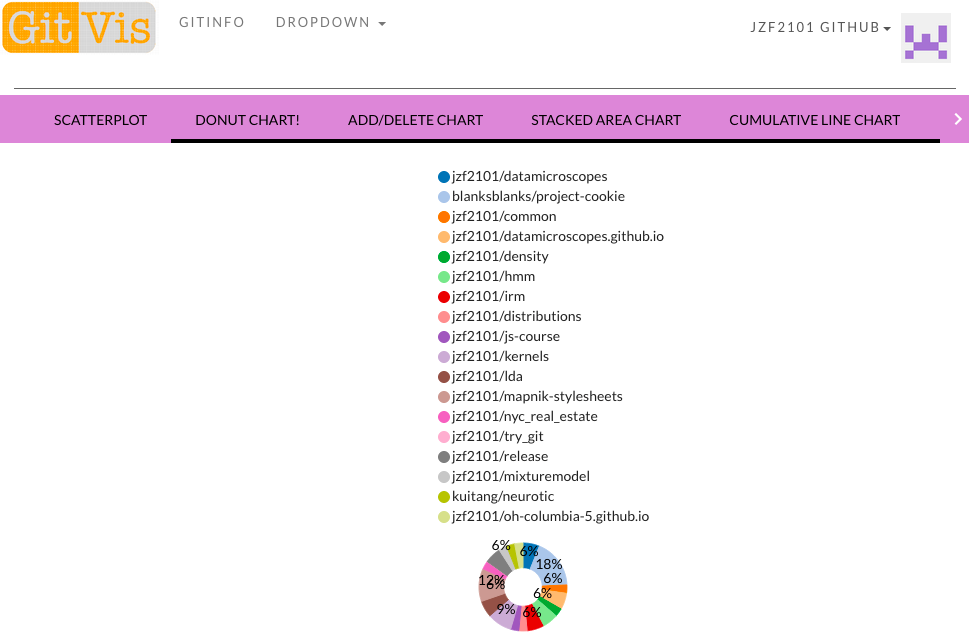
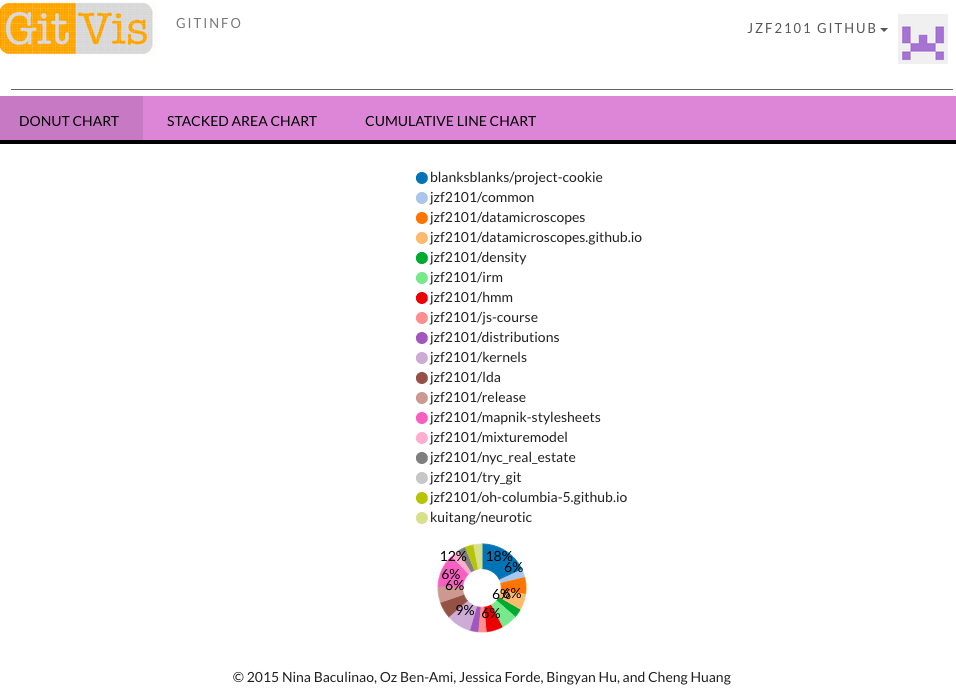
streamlined app to focus on completedfunctionality

diff --git a/public/app/layout/main.html b/public/app/layout/main.html
@@ -18,37 +18,18 @@
 
   <md-tabs class="md-accent">
 
-    <md-tab label="Scatterplot">
-      <!-- <img src="http://cl.ly/image/1I2Z081T2R1j/Image%202015-03-11%20at%202.47.12%20AM.png"> -->
-      <br><center><img src="http://cl.ly/image/2N0S401A313e/Image%202015-03-11%20at%202.00.38%20AM.png"></center>
-      <!-- 	  	<ul>
-	  		<li><b>Question: Which repos do you have the longest relationship with?
-	  		    <li>Information needed:</b>
-    	  		  <ul><li>Circle: repo
-   	  		    <li>Size: repo's number of commits
-   	  		    <li>x: date last updated
-  	  		    <li>y: how long this repo has existed
-      </ul></ul> -->
-    </md-tab>
-
-    <md-tab label="Donut Chart!"><center><br>
+    <md-tab label="Donut Chart"><center><br>
 	<div ng-controller="DonutCtrl">
 	  <div class="span9">
 	    <div id='DonutChart' class='span4'>
-	      Donut chart
 	      <svg style='height:500px;width:400px'> </svg>
 	    </div>
 
 
 	  </div>
 
-	  <!-- <img src="http://cl.ly/image/1W0y3J0r0m44/Image%202015-03-11%20at%202.42.36%20AM.png"> -->
-	  <img src="http://cl.ly/image/3r3h3l3J0d0h/Image%202015-03-11%20at%201.59.45%20AM.png">
     </center></md-tab>
 
-    <md-tab label="Add/Delete Chart"><center><br>
-	<img src="http://cl.ly/image/2U3I3b3F2l3V/Image%202015-03-11%20at%202.01.27%20AM.png">
-    </center></md-tab>
 
     <md-tab label="Stacked Area Chart"><center><br>
 	<div ng-controller="StackedAreaCtrl">
@@ -57,16 +38,12 @@
 	  {{drawChart()}}
 	  <div class="span9">
 	    <div id='stackedAreaChart' class='span4'>
-	      StackedArea chart
 	      <svg style='height:500px;width:1000px'> </svg>
 	    </div>
 
 
 	  </div>
 
-
-	  <!-- <img src="http://cl.ly/image/1C3p2l0i2U3w/Image%202015-03-11%20at%202.45.17%20AM.png"> -->
-	  <img src="http://cl.ly/image/0b3L382M092q/Image%202015-03-11%20at%202.03.05%20AM.png">
     </center></md-tab>
 
     <md-tab label="Cumulative Line Chart"><center><br>
@@ -76,40 +53,13 @@
 	  {{drawChart()}}
 	  <div class="span9">
 	    <div id='cumulativeLineChart' class='span4'>
-	      Cumulative line chart
 	      <svg style='height:500px;width:1000px'> </svg>
 	    </div>
 
 
 	  </div>
 
-
-	<img src="http://cl.ly/image/442z2b0B311K/Image%202015-03-11%20at%202.03.54%20AM.png">
     </center></md-tab>
-
-    <md-tab label="Angular Material Design Bar Chart">
-      <style>
-	.chart div {
-	font: 10px sans-serif;
-	background-color: steelblue;
-	text-align: right;
-	padding: 3px;
-	margin: 1px;
-	color: white;
-	}
-      </style>
-      <div class="chart"><br>
-	<div style="width: 40px;">4</div>
-	<div style="width: 80px;">8</div>
-	<div style="width: 150px;">15</div>
-	<div style="width: 160px;">16</div>
-	<div style="width: 230px;">23</div>
-	<div style="width: 420px;">42</div>
-      </div>
-    </md-tab>
-
-
-  </md-tabs>
 
 
   </div>

diff --git a/public/app/core/nav/nav-menu.html b/public/app/core/nav/nav-menu.html
@@ -3,22 +3,6 @@
   <!--<li class="active"><a href="#">Link</a></li>
   <li ui-sref-active="active"><a ui-sref="admin">Admin</a></li>-->
   <li ui-sref-active="active"><a ui-sref="gitinfo">GitInfo</a></li>
-  <li class="dropdown" dropdown>
-    <a href="#" class="dropdown-toggle"
-                data-toggle="dropdown"
-                dropdown-toggle>
-      Dropdown <span class="caret"></span>
-    </a>
-    <ul class="dropdown-menu" role="menu">
-      <li><a href="#">Action</a></li>
-      <li><a href="#">Another action</a></li>
-      <li><a href="#">Something else here</a></li>
-      <li class="divider"></li>
-      <li><a href="#">Separated link</a></li>
-      <li class="divider"></li>
-      <li><a href="#">One more separated link</a></li>
-    </ul>
-  </li>
 </ul>
 
 

diff --git a/public/index.html b/public/index.html
@@ -128,11 +128,11 @@
   <script src="app/core/user/User.js"></script>
   <script src="app/dashboard/DashboardCtrl.js"></script>
   <script src="app/dashboard/config.route.js"></script>
+  <script src="app/github/ClineCtrl.js"></script>
   <script src="app/github/DonutCtrl.js"></script>
   <script src="app/github/GitCtrl.js"></script>
   <script src="app/github/GithubService.js"></script>
   <script src="app/github/StackedAreaCtrl.js"></script>
-  <script src="app/github/ClineCtrl.js"></script>
   <script src="app/github/config.route.js"></script>
   <script src="app/github/gitInfo.js"></script>
   <script src="app/nv.d3.js"></script>

diff --git a/public/app/core/auth/auth-widget.html b/public/app/core/auth/auth-widget.html
@@ -17,7 +17,7 @@
         dropdown
         class="dropdown">
       <div class="media" class="dropdown-toggle" dropdown-toggle>
-        <a class="pull-right" href="#" >
+        <a class="pull-right" href="." >
           <img 
                ng-src="{{currentUser().profileImageUrl}}"
                alt="{{currentUser().displayName}}"
@@ -39,7 +39,6 @@
       </ul>
 
       <ul ng-if="isAuthenticated()" class="dropdown-menu">
-        <li><a ui-sref="dashboard">Dashboard</a></li>
         <li>
           <a ui-sref="profile({id: currentUser()._id})">
             User Profile

diff --git a/public/app/github/git.html b/public/app/github/git.html
@@ -1,18 +1,4 @@
 <div ng-controller="DonutCtrl">
 <div>
 {{commits}}</div>
-We are here at the Git page! Time to add some graphs :)
-
-<div class="span9">
-                      <h2 id='pie_chart'>Pie Chart</h2>
-<div id='chart' class='span4'>
-  Regular pie chart
-  <svg style='height:500px;width:400px'> </svg>
-</div>
-<div id='chart2' class='span4'>
-  Donut chart
-  <svg style='height:500px;width:400px'> </svg>
-</div>
-
-<p>If you want to get rid of this duplication in the main page, comment out (git-info) (/git-info)</p>
 </div>

diff --git a/public/app/core/nav/navbar.html b/public/app/core/nav/navbar.html
@@ -10,7 +10,7 @@
           <span class="icon-bar"></span>
           <span class="icon-bar"></span>
         </button>
-        <a href="#" class="navbar-brand">
+        <a href="." class="navbar-brand">
           <!-- <span class="bold">GitVis</span> -->
           <img src="http://cl.ly/image/0u1O013b0729/Image%202015-03-11%20at%201.23.29%20AM.png" height=55>
         </a>

diff --git a/README.md b/README.md
@@ -18,17 +18,22 @@ GitVis is an interactive data visualization of the activities of a GitHub user a
 ###Login with GitHub authentication
 
 
-![login](http://cl.ly/image/1T3f3c3p0z3L/Image%202015-03-24%20at%206.40.21%20PM.png)
+![login](signin.png)
 
-###Stacked area chart for individual repos 
-
-![stacked](http://cl.ly/image/211o2E1Z3W0G/Image%202015-03-24%20at%206.42.27%20PM.png)
 
 ###Donut chart of multiple repos
 ![donut](donut.png)
 
+###Stacked area chart for individual repos 
+
+![stacked](stacked.png)
+
+###Cumulative line chart for individual repos
+![donut](cumulative.png)
+
+
 ###Gitinfo displays user data as a JSON
-![gitinfo](http://cl.ly/image/0c0M1G0m060U/Image%202015-03-24%20at%206.41.21%20PM.png)
+![gitinfo](gitinfo.png)
 
 ---
 
@@ -80,7 +85,6 @@ GitVis is an interactive data visualization of the activities of a GitHub user a
 
 ##Local Installation
 
-Make sure you have the necessary .env and .envdist files!
 
 ```shell
 npm install
@@ -88,6 +92,8 @@ bower install
 grunt build
 node server.js
 ```
+
+Be sure to have the necessary `.env` and `.envdist` files!
 
 ---
 
@@ -102,11 +108,11 @@ Week 2 (2/22 - 2/28/2015) - _finishing a basic build_
 - [x] FIRST MILESTONE DUE SUN 2/22 @ 11:59PM
 - [X] All day intensive workshop for team projects on Sat 2/28
 
-Week 3 (3/1 - 3/7/2015) - _finishing all core functionality_
+Week 3 (3/1 - 3/7/2015) - _finishing core functionality_
 - [x] Set up the mechanism to request data and information from Github
 - [X] SECOND MILESTONE DUE SUN 3/1 @ 11:59PM
 
-Week 4 (3/8 - 3/11/2015) - _finishing the polish_
+Week 4 (3/8 - 3/11/2015) - _finishing polish_
 - [x] Make visualizations go live on Heroku
 
 ---
@@ -119,5 +125,5 @@ GitVis is an open source project we developed as the final project for our JavaS
 - [GitHub API](https://github.com/blanksblanks/project-cookie/wiki/GitHub-API)
 - [Interactive Data Visualization in JS](https://github.com/blanksblanks/project-cookie/wiki/Interactive-Data-Visualization-in-JS)
 - [Mockup](https://github.com/blanksblanks/project-cookie/wiki/Mockup)
-- [Meeting Notes](https://github.com/blanksblanks/project-cookie/wiki/Notes-from-Meeting-with-Lev-(2-18-15))
+- [Meeting Notes](https://github.com/blanksblanks/project-cookie/wiki/Notes-from-Meeting-with-Lev-(2-18-15)
 
